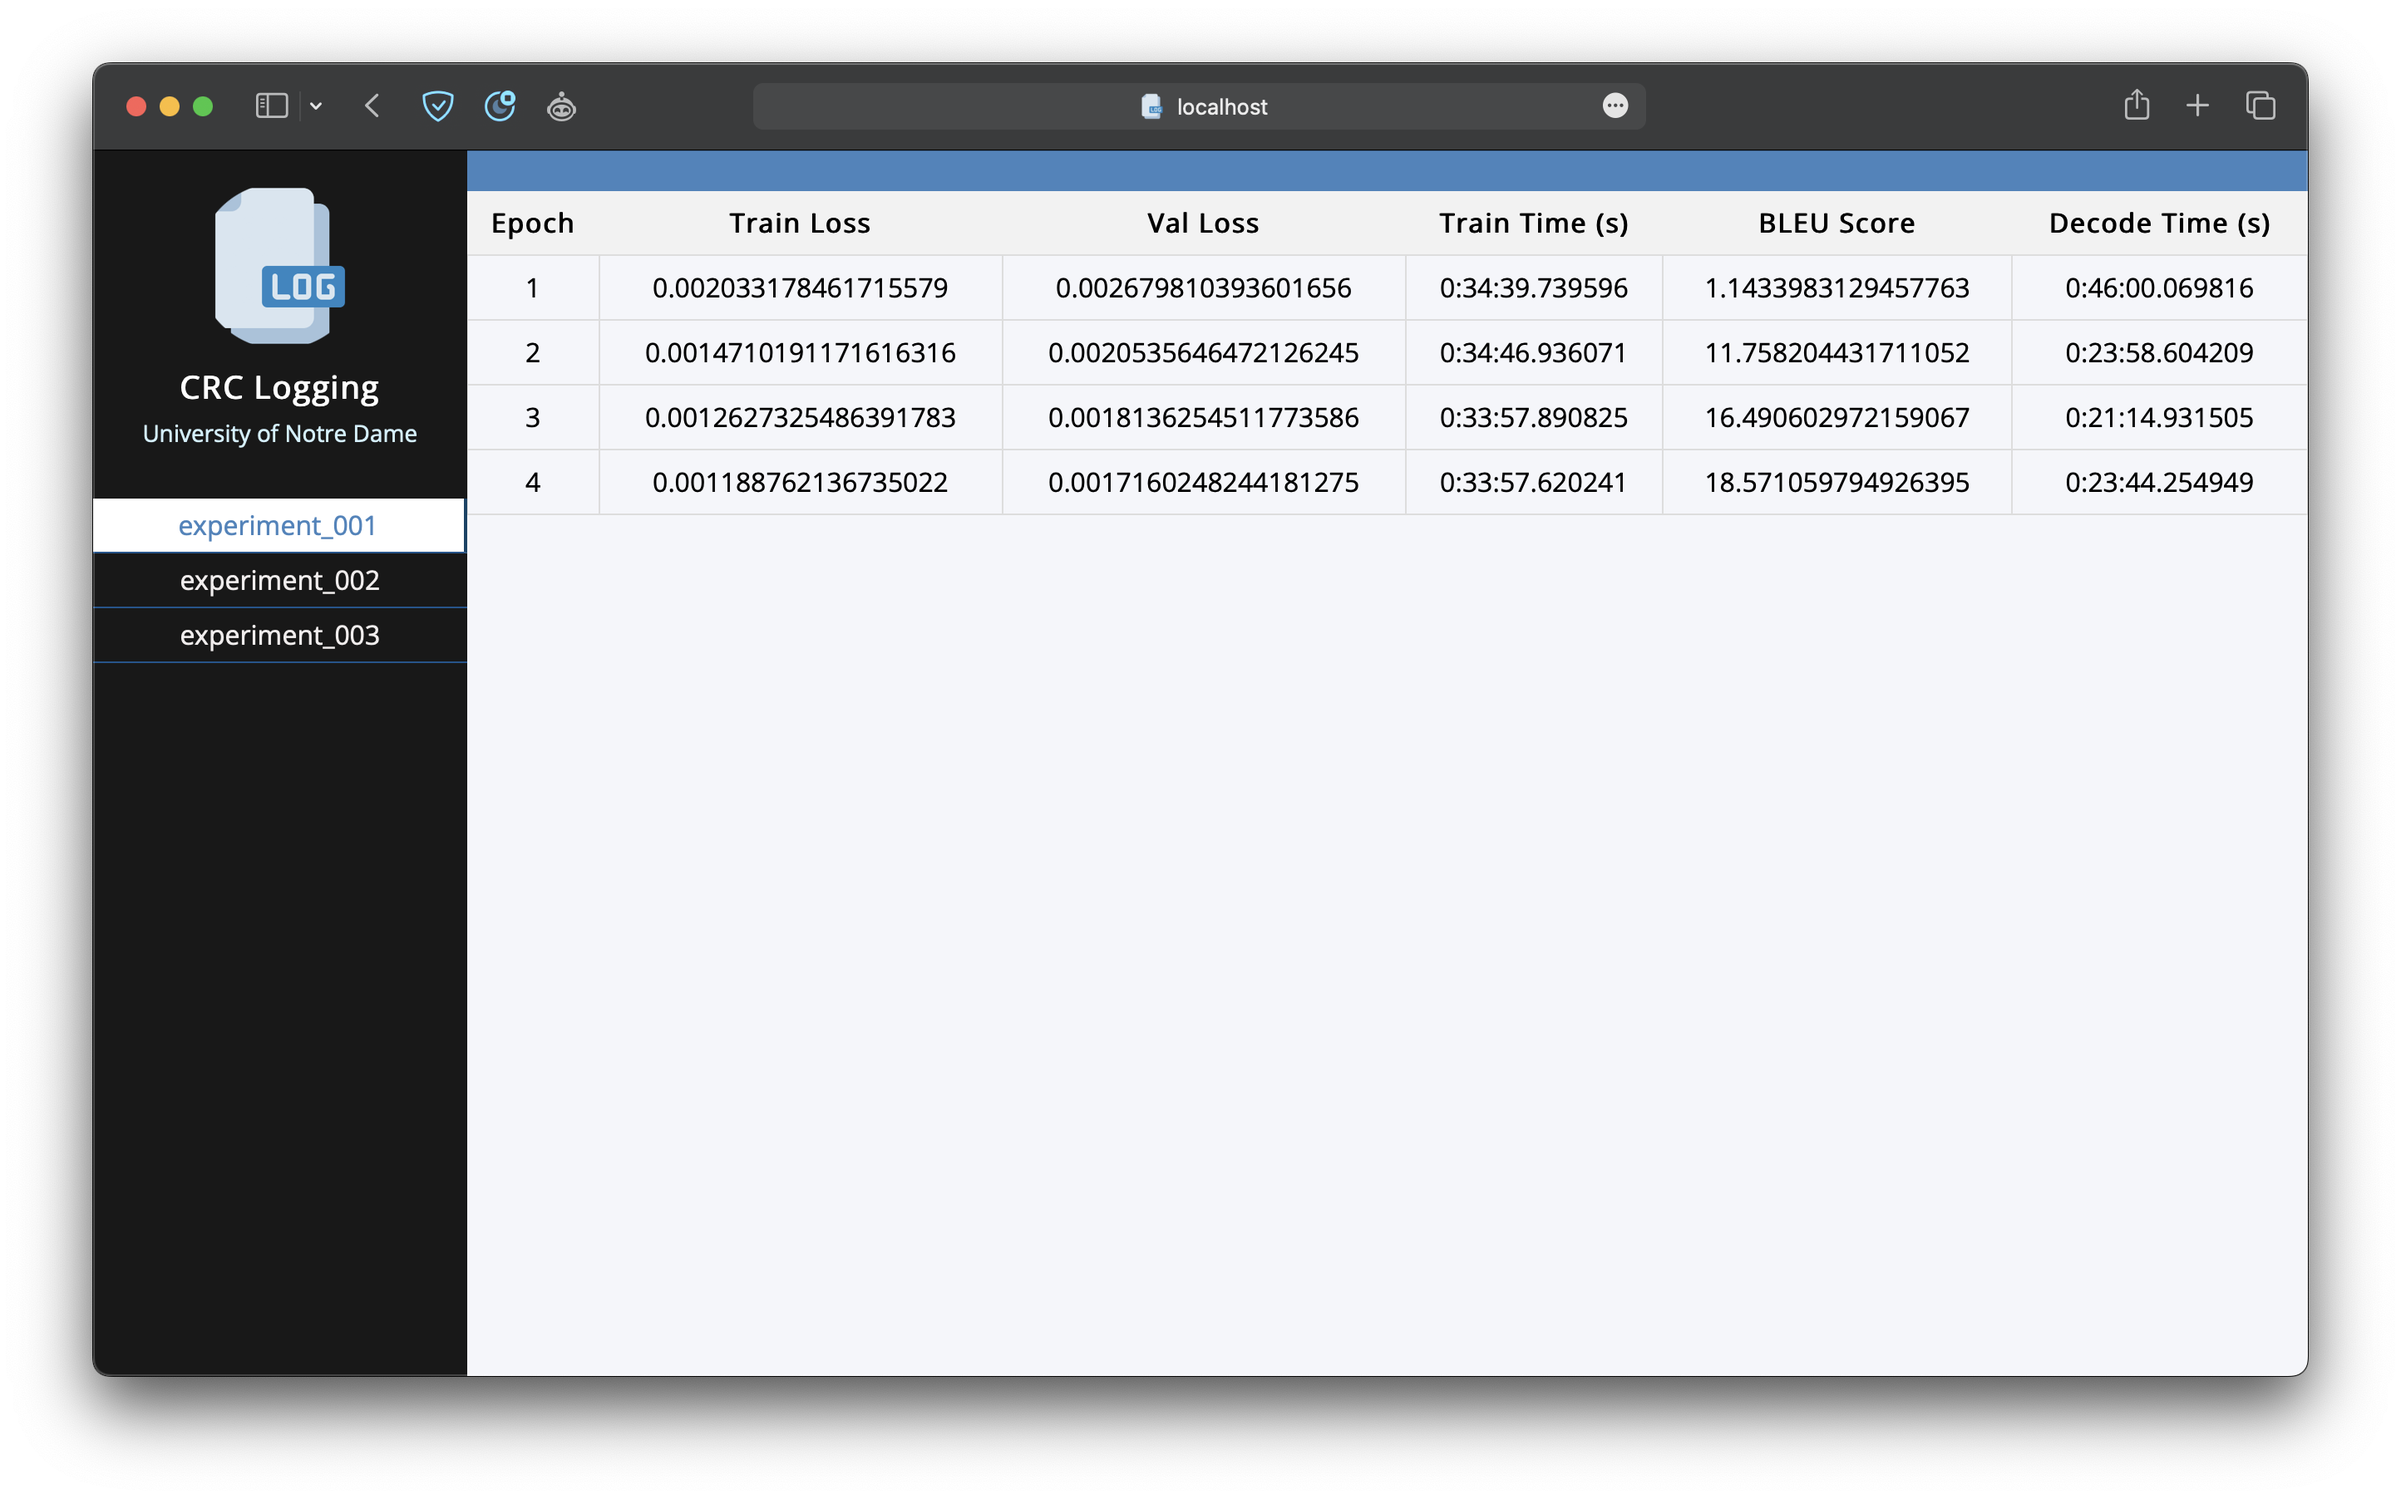
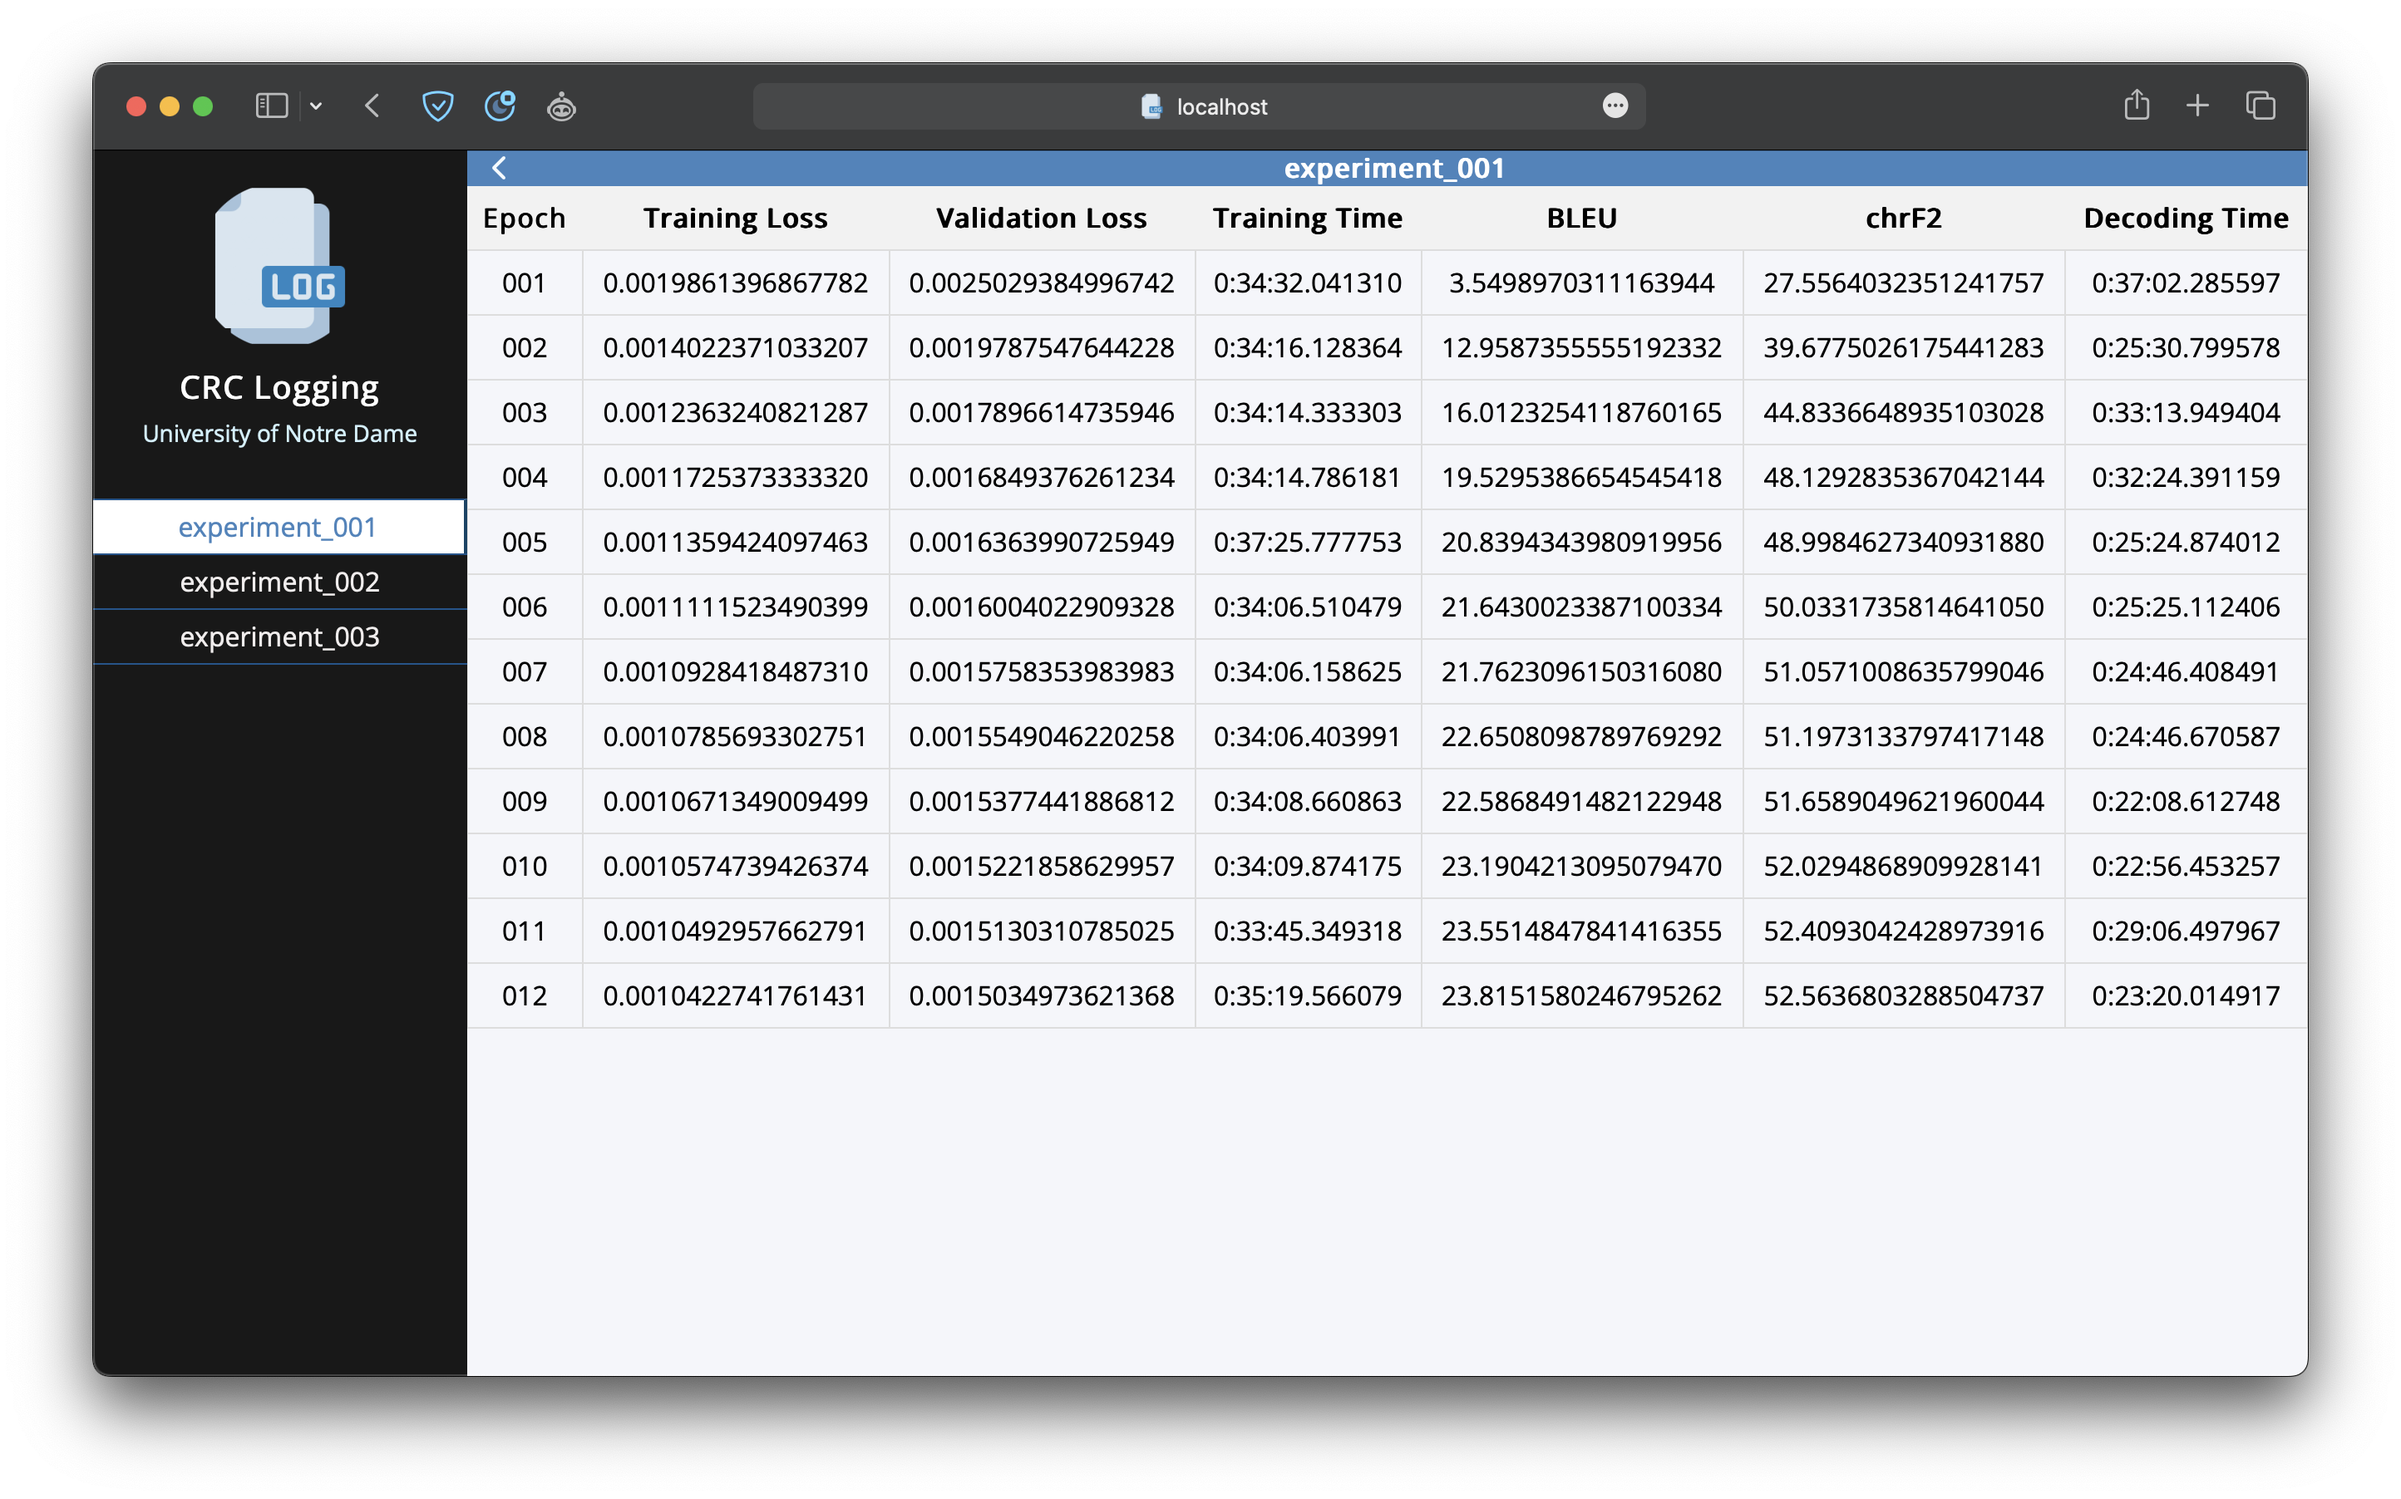
added experiment name to header and reduced size

Changed region(s): [[0.187, 0.0931, 0.9661, 0.4967], [0.2181, 0.5277, 0.9661, 0.6829], [0.0623, 0.3415, 0.1558, 0.4346]]

diff --git a/public/index.html b/public/index.html
@@ -14,7 +14,7 @@
     <div class="wrapper">
         <div class="sidebar">
             <div class="profile">
-                <img src="images/icon.png" alt="log_icon">
+                <img src="images/icon.png" alt="profile_picture">
                 <h3>CRC Logging</h3>
                 <p>University of Notre Dame</p>
             </div>
@@ -54,8 +54,11 @@
             <div class="header">
                 <div class="collapse">
                     <a href="#">
-                        <i id="collapse-icon" class="fa-solid fa-chevron-left fa-xs"></i>
+                        <i id="collapse-icon" class="fa-solid fa-chevron-left"></i>
                     </a>
+                </div>
+                <div class="center">
+                    <h4 id="title"></h4>
                 </div>
                 <script>
                     var collapse = document.querySelector('.collapse');
@@ -75,6 +78,7 @@
                     async function changeContent(markdownFile, elementId) {
                         let file = await fetch(markdownFile)
                         let text = await file.text()
+                        document.getElementById('title').innerHTML = elementId;
                         document.getElementById('content').innerHTML = marked.parse(text);
                         changeClass(elementId);
                     }

diff --git a/public/style.css b/public/style.css
@@ -93,19 +93,29 @@ body {
 
 .wrapper .section .header {
 	background: rgb(67, 133, 190);
-	height: 25px;
+	height: 22px;
 	display: flex;
 	align-items: center;
 	padding: 0 15px;
 }
 
 .wrapper .section .header .collapse a {
-    font-size: 25px;
     color: #f4fbff;
 }
 
 .wrapper .section .header .collapse a:hover {
     color: #a2ecff;
+}
+
+.wrapper .section .header .center {
+	margin: auto;
+	width: 50%;
+	height: 22px;
+}
+
+.wrapper .section .header .center h4 {
+	text-align: center;
+	color: #ffffff;
 }
 
 body.active .wrapper .sidebar {

diff --git a/public/markdown/experiment_001.md b/public/markdown/experiment_001.md
@@ -1,6 +1,14 @@
-| Epoch | Train Loss | Val Loss | Train Time (s) | BLEU Score | Decode Time (s) |
-|:---:|:---:|:---:|:---:|:---:|:---:|
-| 1 | 0.002033178461715579 | 0.002679810393601656 | 0:34:39.739596 | 1.1433983129457763 | 0:46:00.069816 |
-| 2 | 0.0014710191171616316 | 0.0020535646472126245 | 0:34:46.936071 | 11.758204431711052 | 0:23:58.604209 |
-| 3 | 0.0012627325486391783 | 0.0018136254511773586 | 0:33:57.890825 | 16.490602972159067 | 0:21:14.931505 |
-| 4 | 0.001188762136735022 | 0.0017160248244181275 | 0:33:57.620241 | 18.571059794926395 | 0:23:44.254949 |
+|Epoch|Training Loss|Validation Loss|Training Time|BLEU|chrF2|Decoding Time|
+|:---:|:---:|:---:|:---:|:---:|:---:|:---:|
+|001|0.0019861396867782|0.0025029384996742|0:34:32.041310|3.5498970311163944|27.5564032351241757|0:37:02.285597|
+|002|0.0014022371033207|0.0019787547644228|0:34:16.128364|12.9587355555192332|39.6775026175441283|0:25:30.799578|
+|003|0.0012363240821287|0.0017896614735946|0:34:14.333303|16.0123254118760165|44.8336648935103028|0:33:13.949404|
+|004|0.0011725373333320|0.0016849376261234|0:34:14.786181|19.5295386654545418|48.1292835367042144|0:32:24.391159|
+|005|0.0011359424097463|0.0016363990725949|0:37:25.777753|20.8394343980919956|48.9984627340931880|0:25:24.874012|
+|006|0.0011111523490399|0.0016004022909328|0:34:06.510479|21.6430023387100334|50.0331735814641050|0:25:25.112406|
+|007|0.0010928418487310|0.0015758353983983|0:34:06.158625|21.7623096150316080|51.0571008635799046|0:24:46.408491|
+|008|0.0010785693302751|0.0015549046220258|0:34:06.403991|22.6508098789769292|51.1973133797417148|0:24:46.670587|
+|009|0.0010671349009499|0.0015377441886812|0:34:08.660863|22.5868491482122948|51.6589049621960044|0:22:08.612748|
+|010|0.0010574739426374|0.0015221858629957|0:34:09.874175|23.1904213095079470|52.0294868909928141|0:22:56.453257|
+|011|0.0010492957662791|0.0015130310785025|0:33:45.349318|23.5514847841416355|52.4093042428973916|0:29:06.497967|
+|012|0.0010422741761431|0.0015034973621368|0:35:19.566079|23.8151580246795262|52.5636803288504737|0:23:20.014917|

diff --git a/public/markdown/experiment_002.md b/public/markdown/experiment_002.md
@@ -1,6 +1,14 @@
-| Epoch | Train Loss | Val Loss | Train Time (s) | BLEU Score | Decode Time (s) |
-|:---:|:---:|:---:|:---:|:---:|:---:|
-| 1 | 0.002033178461715579 | 0.002679810393601656 | 0:34:39.739596 | 1.1433983129457763 | 0:46:00.069816 |
-| 2 | 0.0014710191171616316 | 0.0020535646472126245 | 0:34:46.936071 | 11.758204431711052 | 0:23:58.604209 |
-| 3 | 0.0012627325486391783 | 0.0018136254511773586 | 0:33:57.890825 | 16.490602972159067 | 0:21:14.931505 |
-| 4 | 0.001188762136735022 | 0.0017160248244181275 | 0:33:57.620241 | 18.571059794926395 | 0:23:44.254949 |
+|Epoch|Training Loss|Validation Loss|Training Time|BLEU|chrF2|Decoding Time|
+|:---:|:---:|:---:|:---:|:---:|:---:|:---:|
+|001|0.0019861396867782|0.0025029384996742|0:34:32.041310|3.5498970311163944|27.5564032351241757|0:37:02.285597|
+|002|0.0014022371033207|0.0019787547644228|0:34:16.128364|12.9587355555192332|39.6775026175441283|0:25:30.799578|
+|003|0.0012363240821287|0.0017896614735946|0:34:14.333303|16.0123254118760165|44.8336648935103028|0:33:13.949404|
+|004|0.0011725373333320|0.0016849376261234|0:34:14.786181|19.5295386654545418|48.1292835367042144|0:32:24.391159|
+|005|0.0011359424097463|0.0016363990725949|0:37:25.777753|20.8394343980919956|48.9984627340931880|0:25:24.874012|
+|006|0.0011111523490399|0.0016004022909328|0:34:06.510479|21.6430023387100334|50.0331735814641050|0:25:25.112406|
+|007|0.0010928418487310|0.0015758353983983|0:34:06.158625|21.7623096150316080|51.0571008635799046|0:24:46.408491|
+|008|0.0010785693302751|0.0015549046220258|0:34:06.403991|22.6508098789769292|51.1973133797417148|0:24:46.670587|
+|009|0.0010671349009499|0.0015377441886812|0:34:08.660863|22.5868491482122948|51.6589049621960044|0:22:08.612748|
+|010|0.0010574739426374|0.0015221858629957|0:34:09.874175|23.1904213095079470|52.0294868909928141|0:22:56.453257|
+|011|0.0010492957662791|0.0015130310785025|0:33:45.349318|23.5514847841416355|52.4093042428973916|0:29:06.497967|
+|012|0.0010422741761431|0.0015034973621368|0:35:19.566079|23.8151580246795262|52.5636803288504737|0:23:20.014917|

diff --git a/public/markdown/experiment_003.md b/public/markdown/experiment_003.md
@@ -1,6 +1,14 @@
-| Epoch | Train Loss | Val Loss | Train Time (s) | BLEU Score | Decode Time (s) |
-|:---:|:---:|:---:|:---:|:---:|:---:|
-| 1 | 0.002033178461715579 | 0.002679810393601656 | 0:34:39.739596 | 1.1433983129457763 | 0:46:00.069816 |
-| 2 | 0.0014710191171616316 | 0.0020535646472126245 | 0:34:46.936071 | 11.758204431711052 | 0:23:58.604209 |
-| 3 | 0.0012627325486391783 | 0.0018136254511773586 | 0:33:57.890825 | 16.490602972159067 | 0:21:14.931505 |
-| 4 | 0.001188762136735022 | 0.0017160248244181275 | 0:33:57.620241 | 18.571059794926395 | 0:23:44.254949 |
+|Epoch|Training Loss|Validation Loss|Training Time|BLEU|chrF2|Decoding Time|
+|:---:|:---:|:---:|:---:|:---:|:---:|:---:|
+|001|0.0019861396867782|0.0025029384996742|0:34:32.041310|3.5498970311163944|27.5564032351241757|0:37:02.285597|
+|002|0.0014022371033207|0.0019787547644228|0:34:16.128364|12.9587355555192332|39.6775026175441283|0:25:30.799578|
+|003|0.0012363240821287|0.0017896614735946|0:34:14.333303|16.0123254118760165|44.8336648935103028|0:33:13.949404|
+|004|0.0011725373333320|0.0016849376261234|0:34:14.786181|19.5295386654545418|48.1292835367042144|0:32:24.391159|
+|005|0.0011359424097463|0.0016363990725949|0:37:25.777753|20.8394343980919956|48.9984627340931880|0:25:24.874012|
+|006|0.0011111523490399|0.0016004022909328|0:34:06.510479|21.6430023387100334|50.0331735814641050|0:25:25.112406|
+|007|0.0010928418487310|0.0015758353983983|0:34:06.158625|21.7623096150316080|51.0571008635799046|0:24:46.408491|
+|008|0.0010785693302751|0.0015549046220258|0:34:06.403991|22.6508098789769292|51.1973133797417148|0:24:46.670587|
+|009|0.0010671349009499|0.0015377441886812|0:34:08.660863|22.5868491482122948|51.6589049621960044|0:22:08.612748|
+|010|0.0010574739426374|0.0015221858629957|0:34:09.874175|23.1904213095079470|52.0294868909928141|0:22:56.453257|
+|011|0.0010492957662791|0.0015130310785025|0:33:45.349318|23.5514847841416355|52.4093042428973916|0:29:06.497967|
+|012|0.0010422741761431|0.0015034973621368|0:35:19.566079|23.8151580246795262|52.5636803288504737|0:23:20.014917|
